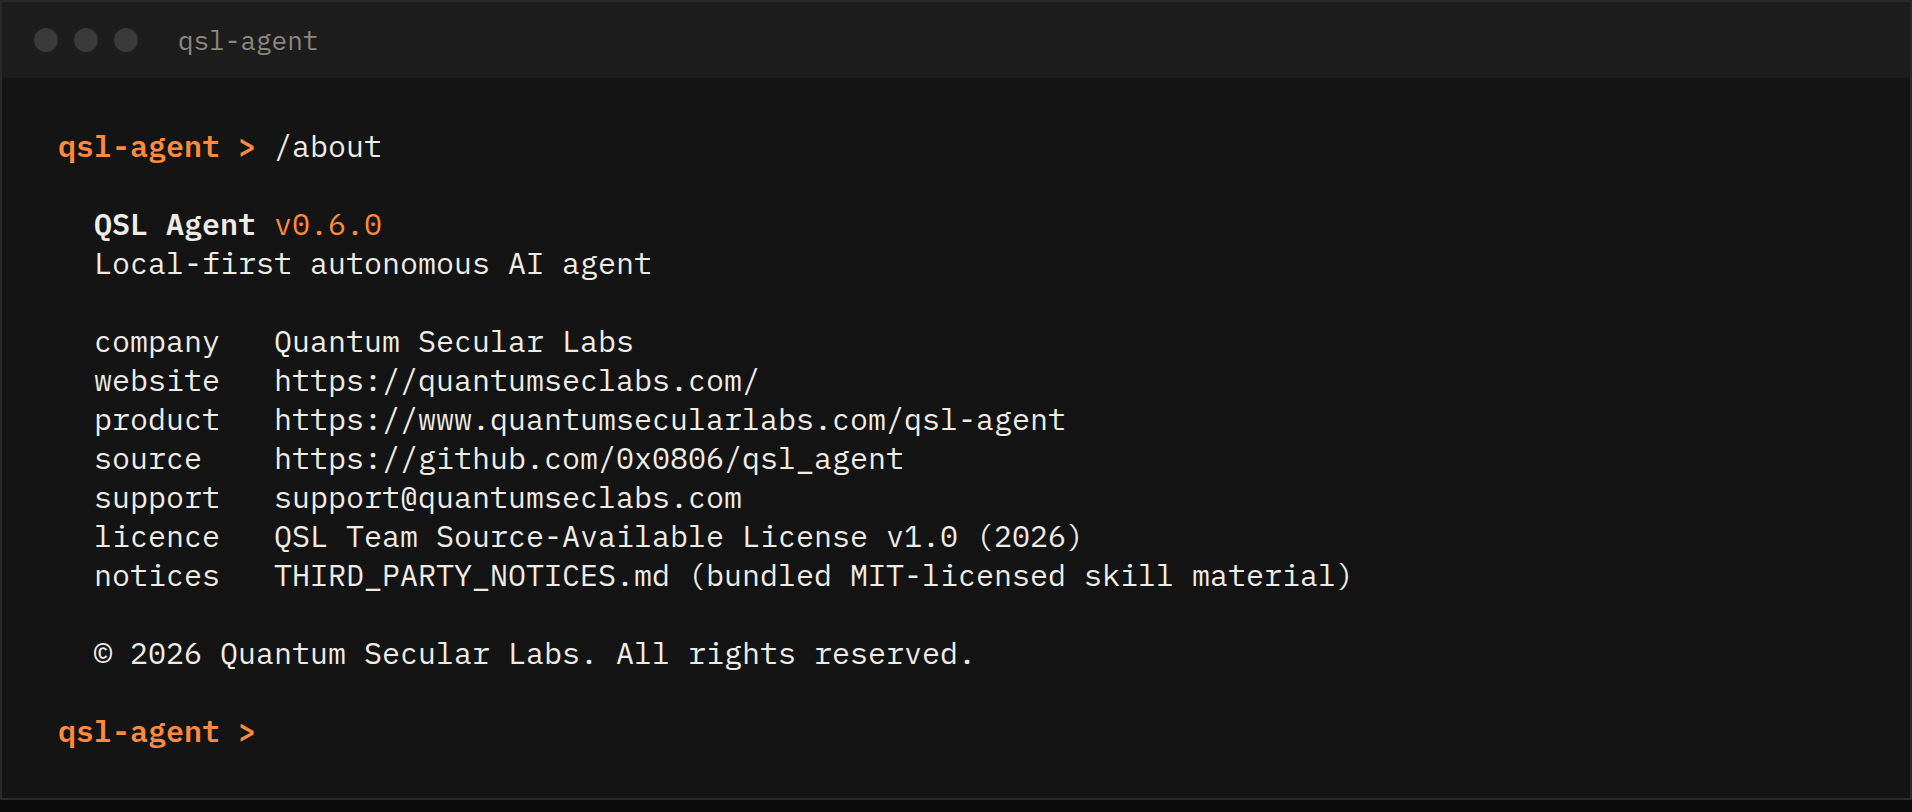
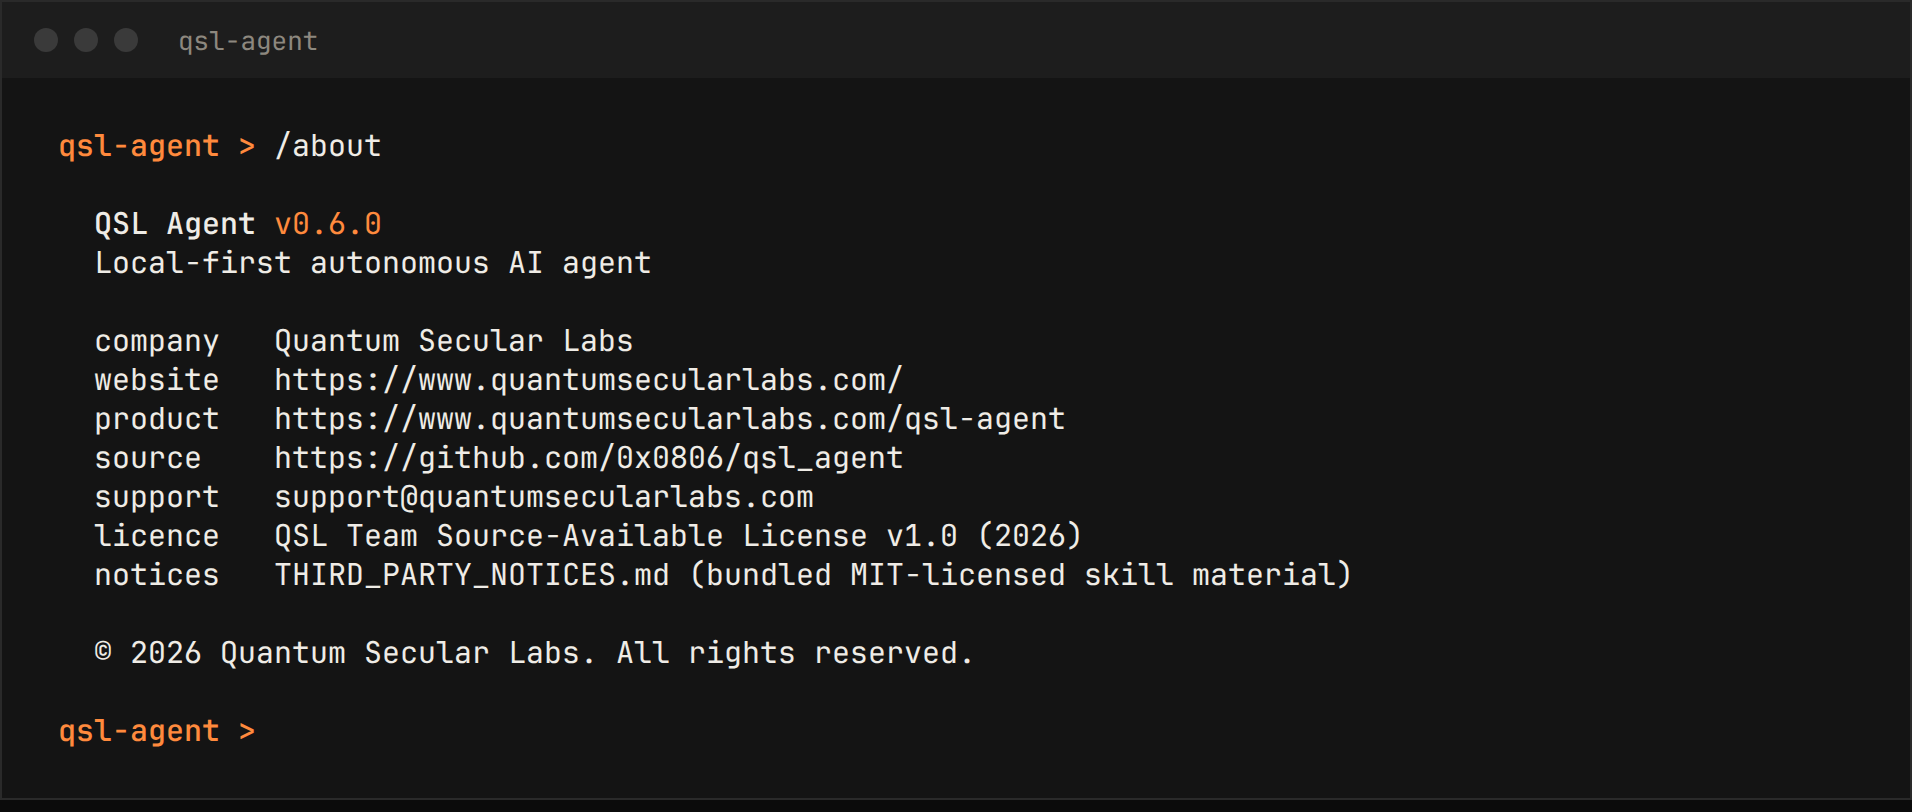
Update website to www.quantumsecularlabs.com, fix installer help and CLI help, refresh screenshots

diff --git a/src/main.rs b/src/main.rs
@@ -32,10 +32,10 @@ use crate::config::{ApprovalMode, Config};
 #[command(
     name = "qsl-agent",
     version,
-    long_version = concat!(env!("CARGO_PKG_VERSION"), "\nQuantum Secular Labs - https://quantumseclabs.com/\n(c) 2026 Quantum Secular Labs. All rights reserved.\nLicence: QSL Team Source-Available License v1.0 (2026); third-party notices: THIRD_PARTY_NOTICES.md"),
-    author = "Quantum Secular Labs <https://quantumseclabs.com/>",
+    long_version = concat!(env!("CARGO_PKG_VERSION"), "\nQuantum Secular Labs - https://www.quantumsecularlabs.com/\n(c) 2026 Quantum Secular Labs. All rights reserved.\nLicence: QSL Team Source-Available License v1.0 (2026); third-party notices: THIRD_PARTY_NOTICES.md"),
+    author = "Quantum Secular Labs <https://www.quantumsecularlabs.com/>",
     about = "QSL Agent — fast, local-first autonomous AI agent with Obsidian memory",
-    after_help = "Examples:\n  qsl-agent                                   interactive REPL\n  qsl-agent \"summarise this repo\"              one-shot task\n  git diff | qsl-agent -P - \"review this\"       read the prompt from stdin\n  qsl-agent -C                                continue the last session\n  qsl-agent --serve 127.0.0.1:8765            HTTP API"
+    after_help = "Examples:\n  qsl-agent                                   interactive REPL\n  qsl-agent \"summarise this repo\"              one-shot task\n  git diff | qsl-agent -P - \"review this\"       read the prompt from stdin\n  qsl-agent -C                                continue the last session\n  qsl-agent --serve 127.0.0.1:8765            HTTP API\n\nHelp inside the REPL: /help (commands), /about (company & licence)\nWebsite: https://www.quantumsecularlabs.com/ \u{b7} Product: https://www.quantumsecularlabs.com/qsl-agent"
 )]
 struct Args {
     /// Prompt words for a one-shot task (same as -P)
@@ -50,7 +50,7 @@ struct Args {
     #[arg(short, long)]
     model: Option<String>,
 
-    /// Provider: ollama, lmstudio, custom
+    /// Engine: ollama, lmstudio, custom (local) or openai, anthropic, gemini, openrouter (hosted, needs consent)
     #[arg(short, long)]
     provider: Option<String>,
 

diff --git a/src/cli.rs b/src/cli.rs
@@ -24,7 +24,7 @@ const COMMANDS: &[(&str, &str)] = &[
     ("/health", "Run the health & connectivity check"),
     ("/models", "List models on the active engine"),
     ("/model", "<name>  Switch the active model"),
-    ("/provider", "<ollama|lmstudio|custom> [url]  Switch engine"),
+    ("/provider", "<name> [url]  Switch engine (/provider lists them)"),
     (
         "/approval",
         "<ask|always|strict|yolo>  Change approval mode",
@@ -528,15 +528,22 @@ async fn handle_command(input: &str, agent: &mut Agent) -> bool {
                     Some((a, rest)) if a.starts_with('<') || a.starts_with('[') => (a, rest),
                     _ => ("", *d),
                 };
-                ui::plain(&format!(
-                    "  {:<40} {}",
-                    format!("{} {}", c.yellow().bold(), args.dimmed()),
-                    desc
-                ));
+                // Pad on the visible width (colour codes must not count), and
+                // keep long usage text on its own line so columns stay aligned.
+                let plain = format!("{c} {args}");
+                let plain_w = plain.trim_end().chars().count();
+                let colored = format!("{} {}", c.yellow().bold(), args.dimmed());
+                if plain_w > 36 {
+                    ui::plain(&format!("  {colored}"));
+                    ui::plain(&format!("  {:<38}{}", "", desc));
+                } else {
+                    let pad = " ".repeat(38usize.saturating_sub(plain.chars().count()));
+                    ui::plain(&format!("  {colored}{pad}{desc}"));
+                }
             }
             ui::plain(&format!(
                 "\n{}\n  {}\n  {}\n  {}\n",
-                "INPUT".bold().cyan(),
+                crate::brand::accent("INPUT").bold(),
                 "End a line with \\ or wrap text in \"\"\" for multi-line prompts. Start with // to send a literal '/'.",
                 "Ctrl+C interrupts the running turn (twice = force quit). Tab completes commands.",
                 "Approvals: [y] once, [a] session, [n] deny, [d] deny for session. Enter = deny."

diff --git a/src/config.rs b/src/config.rs
@@ -413,7 +413,7 @@ impl Config {
         let body = toml::to_string_pretty(&persisted).map_err(std::io::Error::other)?;
         let header = "# =============================================================================\n\
                       # QSL Agent Configuration (v0.5)\n\
-                      # Developed by Quantum Secular Labs (https://quantumseclabs.com/)\n\
+                      # Developed by Quantum Secular Labs (https://www.quantumsecularlabs.com/)\n\
                       # Every key is optional; see config.example.toml in the repository.\n\
                       # =============================================================================\n\n";
         let tmp = path.with_extension("toml.tmp");

diff --git a/src/brand.rs b/src/brand.rs
@@ -12,9 +12,9 @@ use colored::{Color, ColoredString, Colorize};
 use std::sync::OnceLock;
 
 pub const COMPANY: &str = "Quantum Secular Labs";
-pub const WEBSITE: &str = "https://quantumseclabs.com/";
+pub const WEBSITE: &str = "https://www.quantumsecularlabs.com/";
 pub const PRODUCT_PAGE: &str = "https://www.quantumsecularlabs.com/qsl-agent";
-pub const SUPPORT_EMAIL: &str = "support@quantumseclabs.com";
+pub const SUPPORT_EMAIL: &str = "support@quantumsecularlabs.com";
 pub const REPOSITORY: &str = "https://github.com/0x0806/qsl_agent";
 pub const TAGLINE: &str = "Local-first autonomous AI agent";
 pub const COPYRIGHT: &str = "\u{a9} 2026 Quantum Secular Labs. All rights reserved.";

diff --git a/README.md b/README.md
@@ -13,7 +13,7 @@
 
 It runs on your own model (Ollama, LM Studio, llama.cpp, vLLM, or any OpenAI-compatible server) and, if you choose and accept a data-sharing notice, on hosted frontier models (OpenAI, Anthropic, Google, OpenRouter). It acts on your machine through guarded tools (approval gates and a SecurityGuard), and keeps its long-term memory as plain Markdown in your Obsidian vault.
 
-Developed by **[Quantum Secular Labs](https://quantumseclabs.com/)** · [Changelog](CHANGELOG.md) · [Build & test kit](build-test/README.md)
+Developed by **[Quantum Secular Labs](https://www.quantumsecularlabs.com/)** · [Changelog](CHANGELOG.md) · [Build & test kit](build-test/README.md)
 
 </div>
 
@@ -173,7 +173,7 @@ qsl-agent -r 2            # resume session #2 from /sessions
 ```text
                              QSL Agent v0.6.0
       ▄▄██     ▄▄▄▄          Local-first autonomous AI agent
-   ▄████▀  ▄▄████████▄       by Quantum Secular Labs · https://quantumseclabs.com
+   ▄████▀  ▄▄████████▄       by Quantum Secular Labs · https://www.quantumsecularlabs.com
   ▄███▀    ▀▀   ▀▀▀████▄
   ████              ▀████    engine    ollama (http://127.0.0.1:11434/api/chat)
   ████               ▀███▄   model     qwen2.5-coder:7b · Small (<=9B)
@@ -692,7 +692,7 @@ All are picked up unchanged. Skills you edited are never overwritten by the buil
 
 ## About Quantum Secular Labs
 
-**[Quantum Secular Labs](https://quantumseclabs.com/)** (QuantumSec Labs) is a specialized cybersecurity and technology engineering firm focused on digital infrastructure defense, enterprise vulnerability assessment and penetration testing (VAPT), offensive security auditing, and applied Artificial Intelligence research.
+**[Quantum Secular Labs](https://www.quantumsecularlabs.com/)** (QuantumSec Labs) is a specialized cybersecurity and technology engineering firm focused on digital infrastructure defense, enterprise vulnerability assessment and penetration testing (VAPT), offensive security auditing, and applied Artificial Intelligence research.
 
 QSL engineered **QSL Agent** to directly eliminate the security vulnerabilities, secret leakage, and compliance hazards inherent in cloud-tethered AI tools. By uniting defensive cybersecurity principles with native Rust systems engineering, QSL Agent provides developers, security auditors, and enterprises with an autonomous, sovereign local intelligence engine purpose-built for zero-trust environments.
 
@@ -700,9 +700,9 @@ QSL engineered **QSL Agent** to directly eliminate the security vulnerabilities,
 
 ## License
 
-QSL Agent is released under the **[QSL Team Source-Available License v1.0 (2026)](LICENSE)** by **[Quantum Secular Labs](https://quantumseclabs.com/)**.
+QSL Agent is released under the **[QSL Team Source-Available License v1.0 (2026)](LICENSE)** by **[Quantum Secular Labs](https://www.quantumsecularlabs.com/)**.
 
 - **Source-Available**: You may view, inspect, audit, compile, and run the software locally on your own hardware for personal, academic, or internal operational use.
 - **Strictly Non-Redistributable**: You may **NOT** redistribute, resell, mirror, syndicate, sub-license, fork publicly, or distribute pre-compiled binaries or packages to any third party without explicit prior written authorization from Quantum Secular Labs.
-- **Commercial & Cloud Exclusivity**: Providing QSL Agent as a hosted service (SaaS/PaaS/API wrapper) or commercial redistribution is reserved exclusively to **[Quantum Secular Labs](https://quantumseclabs.com/)**.
+- **Commercial & Cloud Exclusivity**: Providing QSL Agent as a hosted service (SaaS/PaaS/API wrapper) or commercial redistribution is reserved exclusively to **[Quantum Secular Labs](https://www.quantumsecularlabs.com/)**.
 - **All Rights Reserved**: All copyrights, patents, and distribution rights remain solely with Quantum Secular Labs.

diff --git a/CHANGELOG.md b/CHANGELOG.md
@@ -1,5 +1,14 @@
 # Changelog
 
+## Unreleased
+
+### Changed
+
+- Company website is now https://www.quantumsecularlabs.com/ everywhere (CLI, `--version`, `/about`, README, licence, installers, Cargo metadata); support address is support@quantumsecularlabs.com.
+- Installers: `install.sh --help` now prints a proper usage text (it printed a stray script line and failed when piped); both installers show website and help hints, and examples reference v0.6.0.
+- Help: `--provider` and `/provider` now list the hosted engines; `/help` columns stay aligned (padding ignored colour codes before); `--help` shows website and in-REPL help pointers.
+- Regenerated all screenshots in `docs/screenshots/` from the current binary.
+
 ## v0.6.0 (2026-11-11)
 
 ### Added
